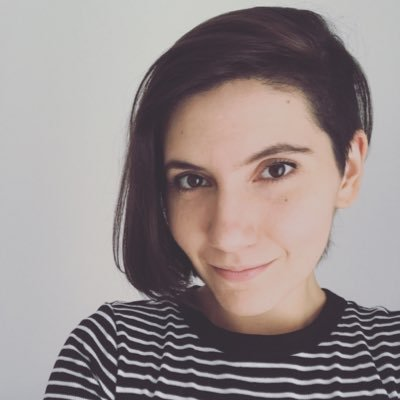
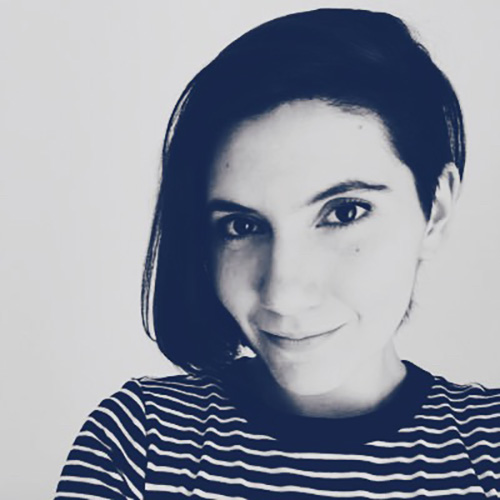
imagenes corregidas, hora en el schedule y footer

diff --git a/src/components/section_venue/index.scss b/src/components/section_venue/index.scss
@@ -1,0 +1,168 @@
+.Venue-component {
+  background-color: var(--v-fourthColor);
+  color: white;
+  padding: 80px;
+  clip-path: polygon(
+    20% 0%,
+    80% 0%,
+    100% 20%,
+    100% 100%,
+    80% 100%,
+    20% 100%,
+    0% 80%,
+    0 0
+  );
+
+  // ARROW DOWN
+  .btn-next-section{
+    position: relative;
+    bottom: 0;
+    width: 50px;
+    margin: var(--gutter) 0;
+    padding: .2em;
+    background-color: var(--v-bg-menu);
+    border-radius: 5px;
+  }
+ 
+
+
+  p {
+    margin: 0 0 30px;
+    line-height: 1.1;
+    margin-bottom: 0;
+    font-size: 24px;
+    // font-family: "Montserrat", sans-serif;
+    font-weight: var(--regular);
+  }
+}
+
+.Venue-left {
+  position: relative;
+  top: 65px;
+  left: 60px;
+
+  .Venue-title {
+    text-align: -webkit-left;
+    color: white;
+    font-size: 42px;
+    // font-family: "Nunito", sans-serif;
+    font-weight: var(--bold);
+  }
+
+  .Venue-hotels10 {
+    width: 250px;
+    margin: 1em 0;
+    padding: 0.9em;
+  }
+
+  .Venue-btn {
+    // padding: var(--gutter);
+    padding: 10px;
+    border: 2px solid var(--secondColor);
+    text-transform: uppercase;
+    text-align: center;
+    font-weight: var(--bold);
+    transition: 0.5s ease;
+    color: var(--p-primaryColor);
+    background-color: var(--secondColor);
+  }
+}
+
+.Venue-text {
+  text-align: -webkit-center;
+  padding-right: 200px;
+
+  p {
+    margin: 0 0 30px;
+    line-height: 1.4;
+    margin-bottom: 0;
+    font-size: 24px;
+    // font-family: "Montserrat", sans-serif;
+    font-weight: 400;
+    //padding-top: 20px;
+  }
+
+  .Venue-rutan {
+    position: relative;
+    width: 500px;
+    bottom: 140px;
+    padding-left: 70px;
+
+    .logo {
+      width: 170px;
+      position: relative;
+    }
+
+    .span-venue {
+      margin: 0 0 30px;
+      line-height: 1.6;
+      margin-bottom: 0;
+      font-size: 14px;
+      // font-family: "Montserrat", sans-serif;
+      font-weight: 400;
+      //bottom: 100px;
+    }
+  }
+}
+
+.Venue-img {
+  width: 400px;
+  float: right;
+  position: relative;
+  bottom: 130px;
+}
+
+@media only screen and (max-width: 1100px) {
+  .Venue-component {
+    display: flex;
+    flex-direction: column;
+    align-items: center;
+    padding: 150px 0;
+    .Venue-left,
+    .Venue-img,
+    .Venue-rutan {
+      position: initial;
+    }
+    .Venue-text {
+      padding: 0;
+    }
+    .Venue-img {
+      margin: 50px 0;
+    }
+    .Venue-rutan {
+      padding: 0;
+    }
+  }
+}
+
+@media only screen and (max-width: 768px) {
+  .Venue-component {
+    flex-direction: column;
+    display: flex;
+    padding: 150px 20px;
+    align-items: center;
+    .Venue-left {
+      position: initial;
+      .Venue-btn {
+        margin-top: 10px;
+      }
+    }
+    .Venue-img {
+      width: 100%;
+      position: initial;
+      margin: 50px 0;
+    }
+    .Venue-text {
+      padding: 0;
+      .Venue-rutan {
+        padding: 0;
+        position: initial;
+        width: 100%;
+        .logo {
+          max-width: 50%;
+          margin-bottom: 20px;
+        }
+      }
+    }
+  }
+}

diff --git a/src/components/footer/index.scss b/src/components/footer/index.scss
@@ -1,0 +1,31 @@
+.section-footer__background {
+  background-color: #181b46;
+  background-position: bottom;
+  min-height: 300px;
+  display: flex;
+  align-items: flex-end; 
+  // margin-bottom: -45px;
+  clip-path: polygon(21% 65%, 100% 65%, 100% 100%, 0% 100%);
+  justify-content: center;
+  position: absolute;
+width: -moz-available;
+  p {
+    color: #e1e1e1;
+    text-align: center;
+    font-weight: 400;
+    font-size: 1.5em;
+    // margin-bottom: 30px;
+  }
+}
+
+@media only screen and (max-width: 575px) {
+  .section-footer__background {
+    padding: 20px;
+    font-size: 13px;
+    line-height: 1.4;
+    p {
+      margin-left: 10px;
+      font-size: 1.125em;
+    }
+  }
+}

diff --git a/src/components/page_schedule/talk_event.js b/src/components/page_schedule/talk_event.js
@@ -23,9 +23,9 @@ export default function TalkEvent(props) {
             <h4 className="page-speaker-name">{props.name}</h4>
             <p className="page-information" dangerouslySetInnerHTML={{ __html: props.description }} />
             {/* <button onClick={ReadMore.readMore} id="myBtn">Read more</button> */}
-            <div className="page-speaker-social">
+            {/* <div className="page-speaker-social">
               <a href={props.twitterUrl} target="__blank" rel="noopener noreferrer">{props.twitterName}</a>
-            </div>
+            </div> */}
           </div>
         </div>
       </div>

diff --git a/src/components/footer/index.js b/src/components/footer/index.js
@@ -8,7 +8,7 @@ export default class SectionFooter extends Component {
           <div className="row">
           <div className="col s12">
             <p className="footer-copyright">
-              JSConf colombia 2019 - This website was built with love from quibdo, colombia by:{" "}
+              JSConf colombia 2019 - This website was built with love from Quibdó, Colombia by:{" "}
               <a
               className="underline--footer"
                 href="https://twitter.com/asprillastiwar"

diff --git a/src/components/page_schedule/schedule.scss b/src/components/page_schedule/schedule.scss
@@ -96,7 +96,7 @@
     }
 
     &:nth-child(even) .page-card__time {
-      left: -50%;
+      left: -65%;
       top: 50%;
       transform: translate(-50%, -50%);
     }
@@ -127,7 +127,7 @@
       left: 50%;
       top: -2%;
       transform: translate(-50%, -50%);
-      padding-left: var(--gutter);
+      padding-left: 20px;
       padding-right: var(--gutter);
       border: 4px solid var(--primaryColor);
       background-color: #fff;

diff --git a/src/components/section_team/index.js b/src/components/section_team/index.js
@@ -273,7 +273,7 @@ export default class sectionTeam extends Component {
                 </figure>
                 <div className="section-speakers__description">
                   <h5>
-                    Jenny Mazo
+                    Jeny Mazo
                   </h5>
                   <p>Comms</p>
                   <a
